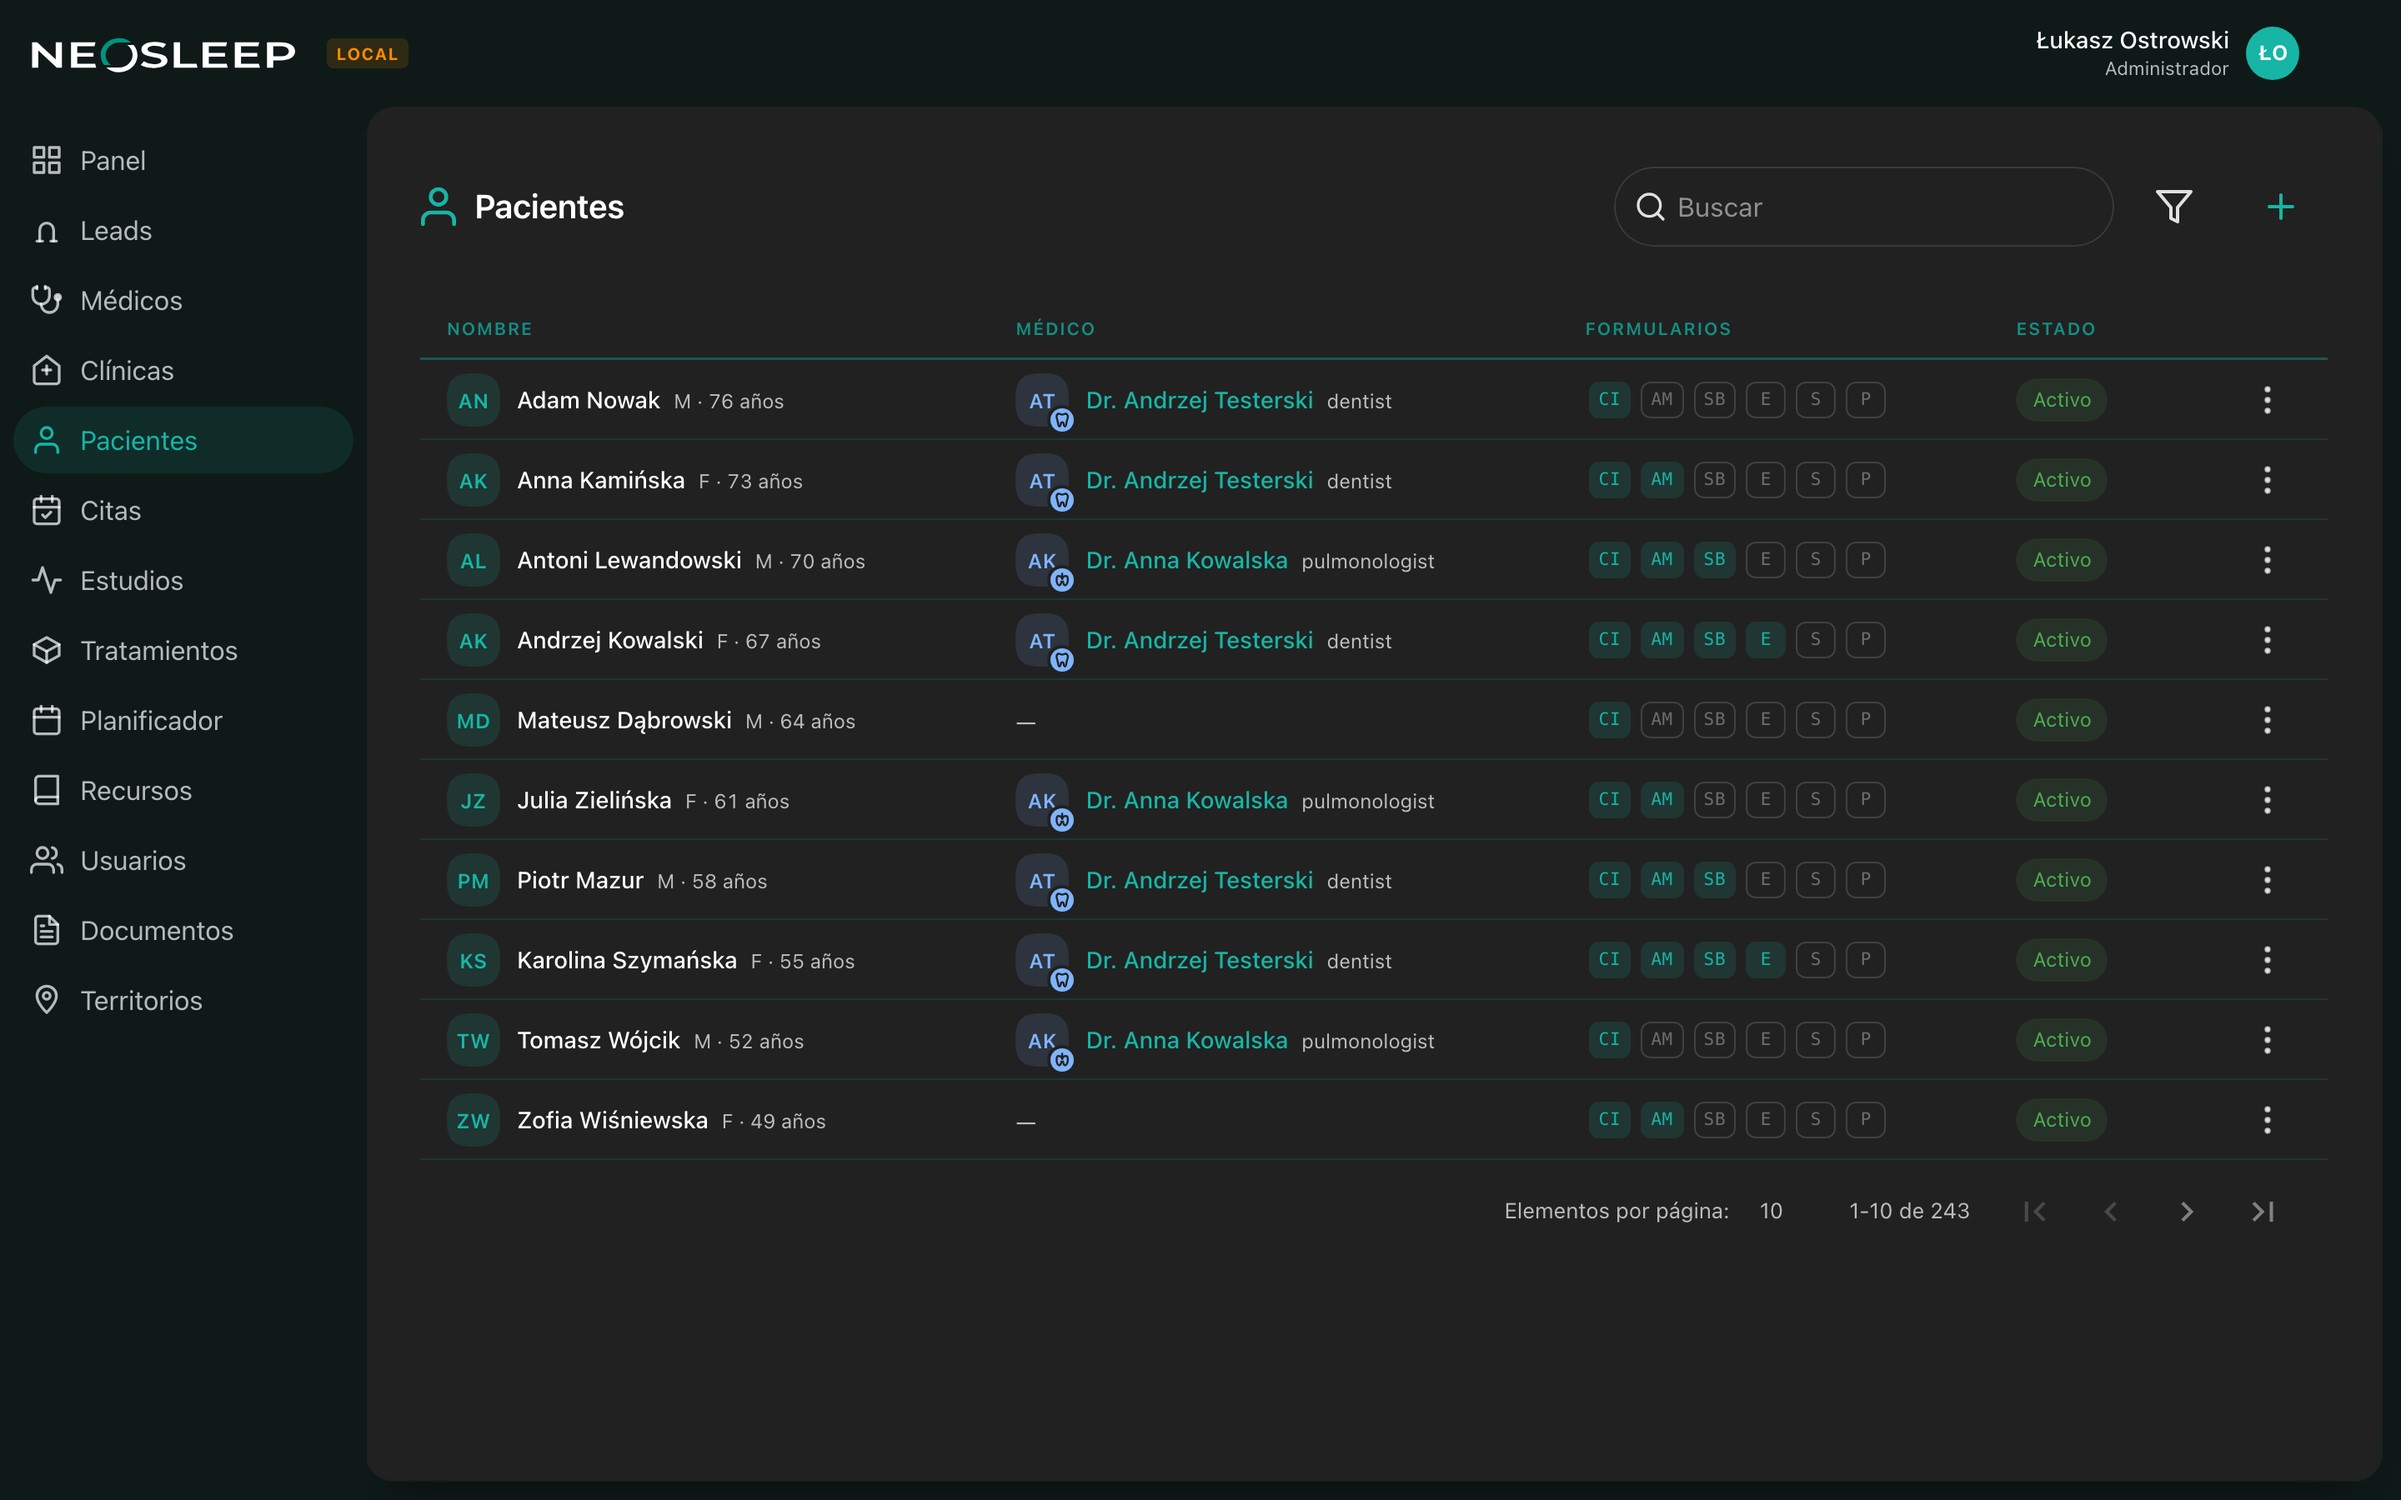
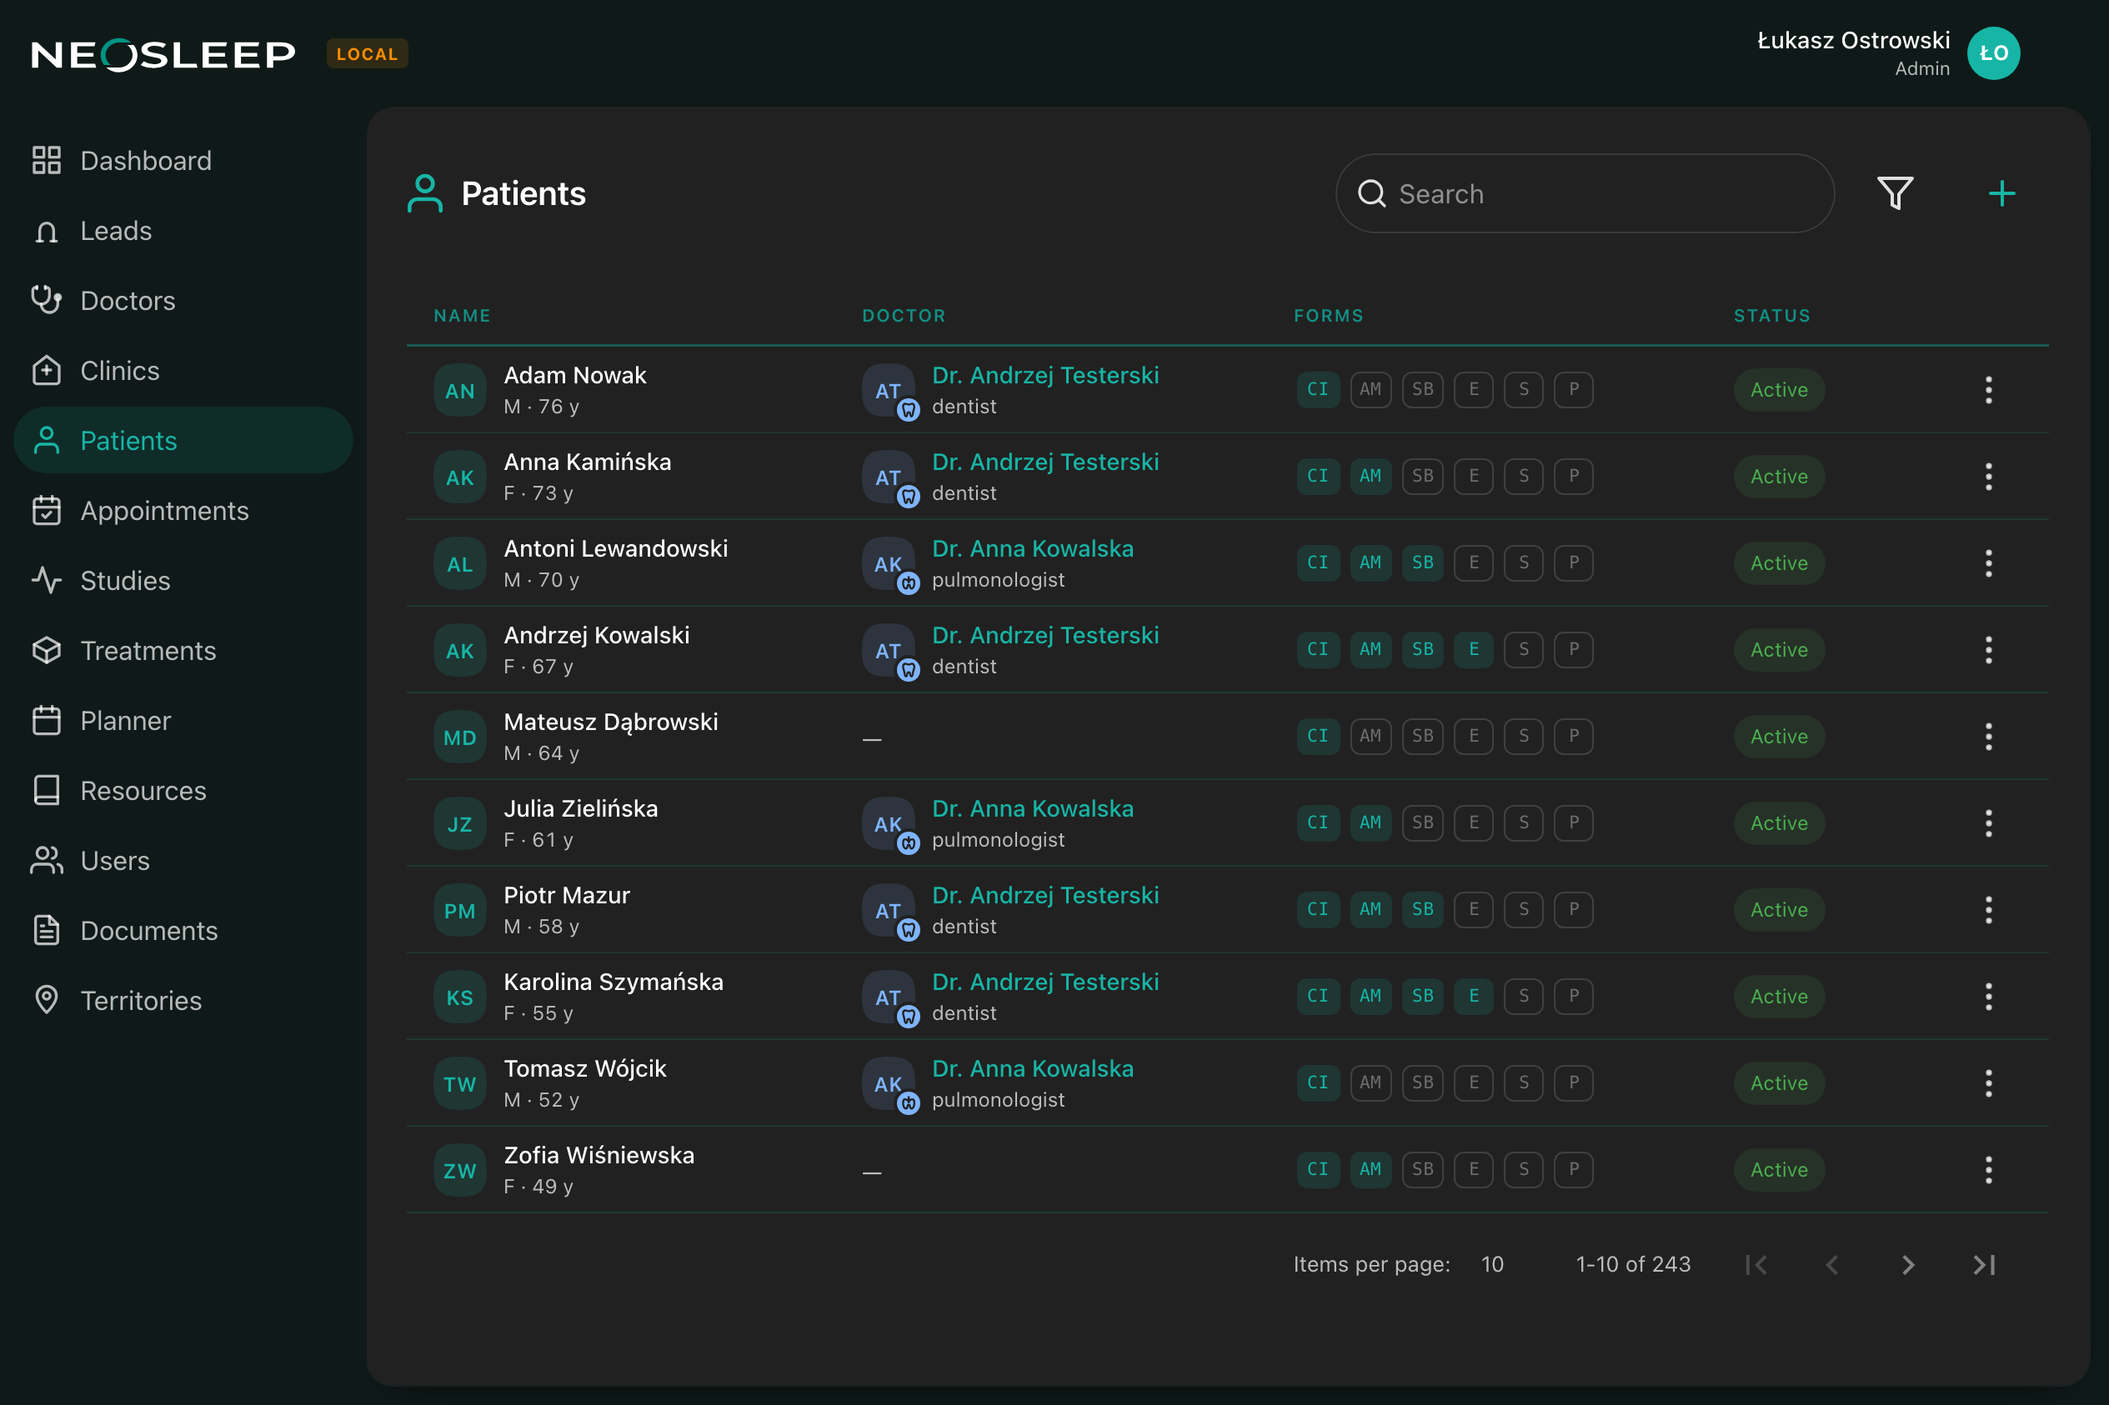
NEO-130 Keep two-line rows (52 px) so 10 fit a 13-inch MacBook window

diff --git a/apps/pwa/src/components/AppEntityList.css b/apps/pwa/src/components/AppEntityList.css
@@ -413,9 +413,10 @@
 .app-entity-list__table-wrap :deep(.v-table) {
   background: transparent;
   --v-table-header-height: 40px;
-  /* NEO-130: compact one-line rows, so a page of 10 plus headers and the
-     pagination footer fits a 1440×900 laptop without scrolling. */
-  --v-table-row-height: 48px;
+  /* NEO-130: two-line rows (name over its quiet details line), as tight as
+     those two lines allow, so a page of 10 plus headers and the pagination
+     footer fits a 13" MacBook browser window (~1265×843) without scrolling. */
+  --v-table-row-height: 52px;
 }
 
 /* NEO-130, desktop: capped at the bottom of the screen (minus the sheet's own
@@ -427,16 +428,6 @@
     240px,
     calc(100dvh - var(--entity-list-top, 0px) - var(--layout-card-inset, 16px) - var(--layout-sheet-foot, 12px))
   );
-}
-
-/* One line per row: a large identity's quiet details line ("F · 41 años",
-   "Dentist") sits next to the name instead of under it — the table only;
-   phone cards and record headers keep the two-line identity. */
-.app-entity-list__table-wrap :deep(.v-table .entity-link__text) {
-  flex-direction: row;
-  align-items: baseline;
-  gap: 8px;
-  white-space: nowrap;
 }
 
 .app-entity-list__table-wrap :deep(.v-table > .v-table__wrapper > table) {
@@ -584,7 +575,7 @@
   display: flex;
   align-items: center;
   gap: 12px;
-  height: 48px;
+  height: 52px;
   padding: 0 16px;
   box-shadow: inset 0 -1px 0 var(--pwa-rule);
   animation: app-entity-list-skeleton-breathe 1.6s ease-in-out infinite;

diff --git a/apps/pwa/src/views/PatientsView.vue b/apps/pwa/src/views/PatientsView.vue
@@ -309,12 +309,9 @@ function onBookAppointment(patient: PatientListItem) {
 </script>
 
 <style scoped>
-/* One line, like every table row (NEO-130): the date, then how long ago. */
 .patients-view__updated {
   display: inline-flex;
-  align-items: baseline;
-  gap: 8px;
-  white-space: nowrap;
+  flex-direction: column;
   line-height: 1.3;
 }
 
